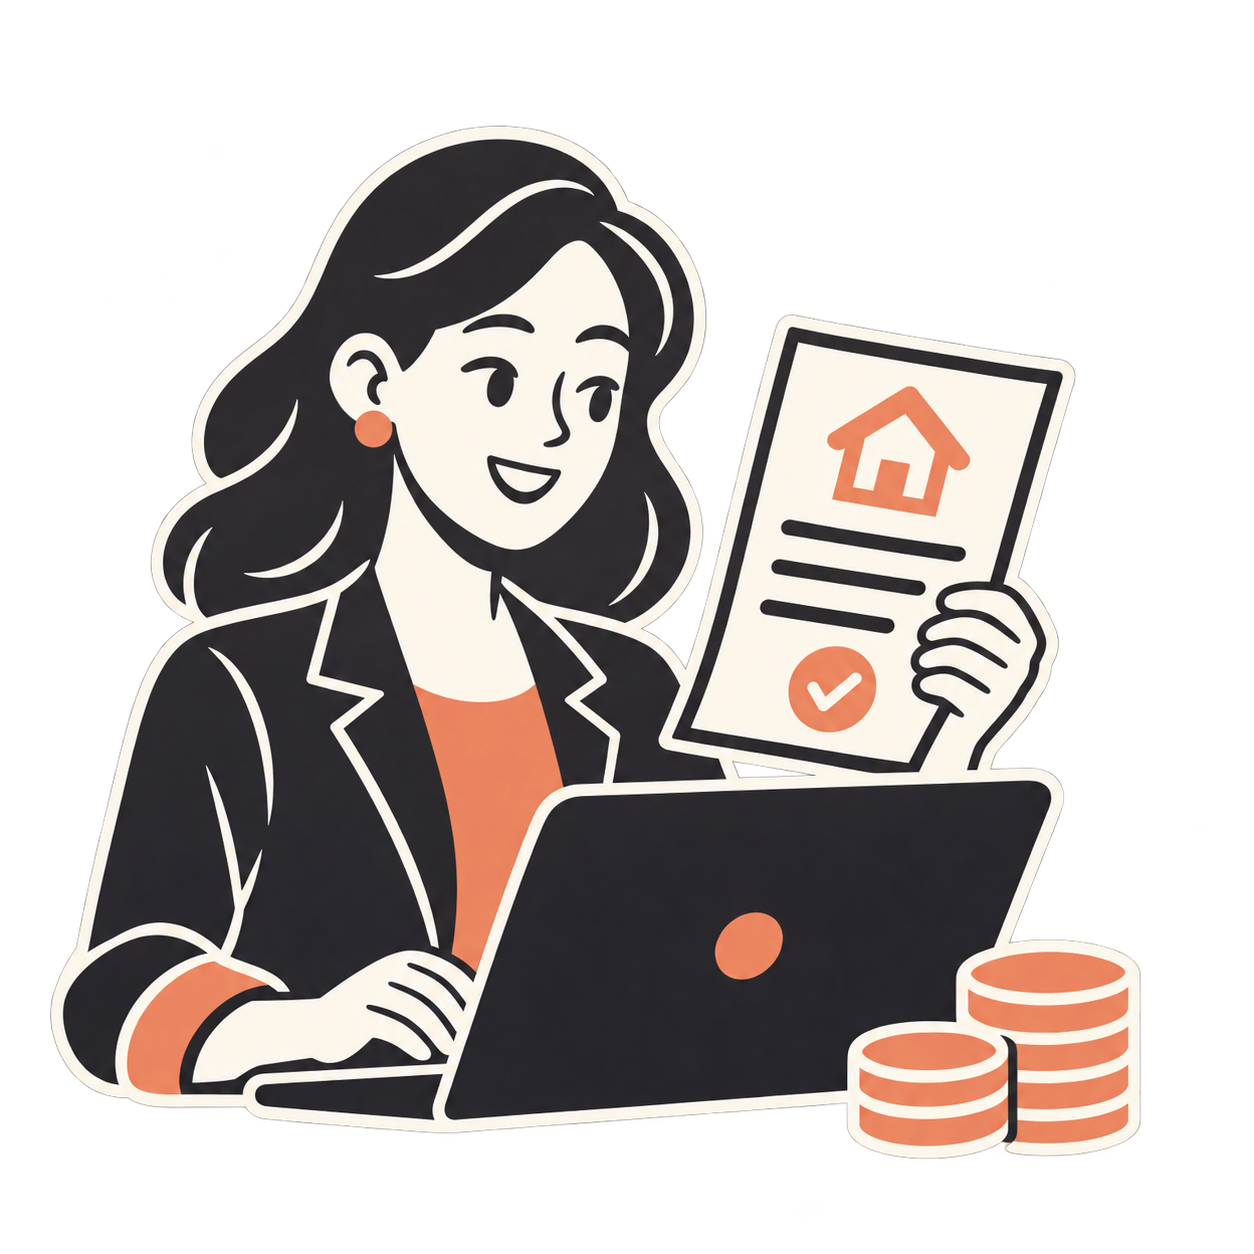
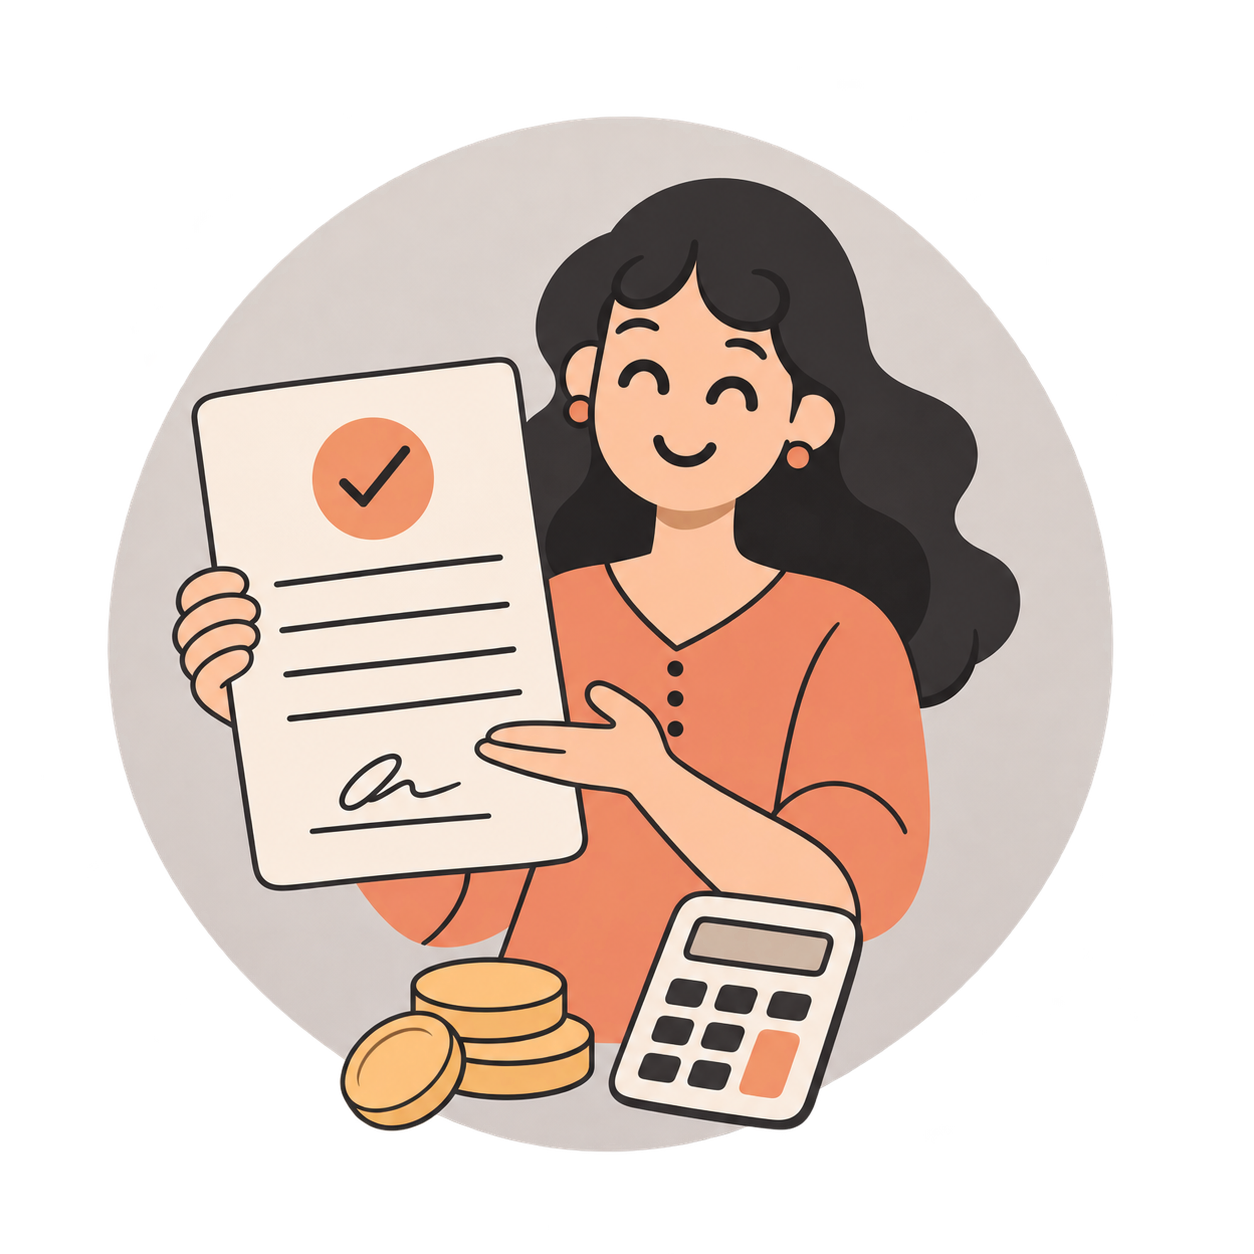
Login

diff --git a/assets/GENERACION-ACCESO.md b/assets/GENERACION-ACCESO.md
@@ -1,0 +1,9 @@
+# Nueva ilustración de acceso
+
+Generada con image_gen integrada a partir de las dos referencias del usuario.
+Archivo final: acceso.png. El login y el registro comparten este archivo.
+Versión anterior conservada en referencias/acceso-contorno-blanco.png.
+
+## Prompt
+
+Create a finished high resolution square PNG illustration for the login of a Spanish loan simulator. Reference 1: woman and finance subject only. Reference 2: dominant style and composition reference: friendly editorial flat illustration, fine dark linework, large soft circle behind a person holding a document, small coins. Create an original friendly person presenting a generic loan document, a few coins and a small calculator, over a large muted warm light gray circular disk. Palette must fit charcoal black and copper UI: copper peach #ED916F clothing and highlights, warm natural skin, charcoal fine outlines, ivory document and soft muted warm-gray circle. Absolutely NO white outer contour, NO sticker border, NO thick outlines, NO glow, NO shadows, NO photo or 3D. Use clean simple shapes, crisp high quality edges, understated professional friendly character, not an icon with heavy borders. No houses or mortgages; general personal finance. No words, letters, logos or watermarks. Circle belongs to illustration and is opaque; all space outside circle and foreground objects must be truly transparent. Entire composition centered with generous 8% transparent margins, nothing clipped. At least 1024x1024.
